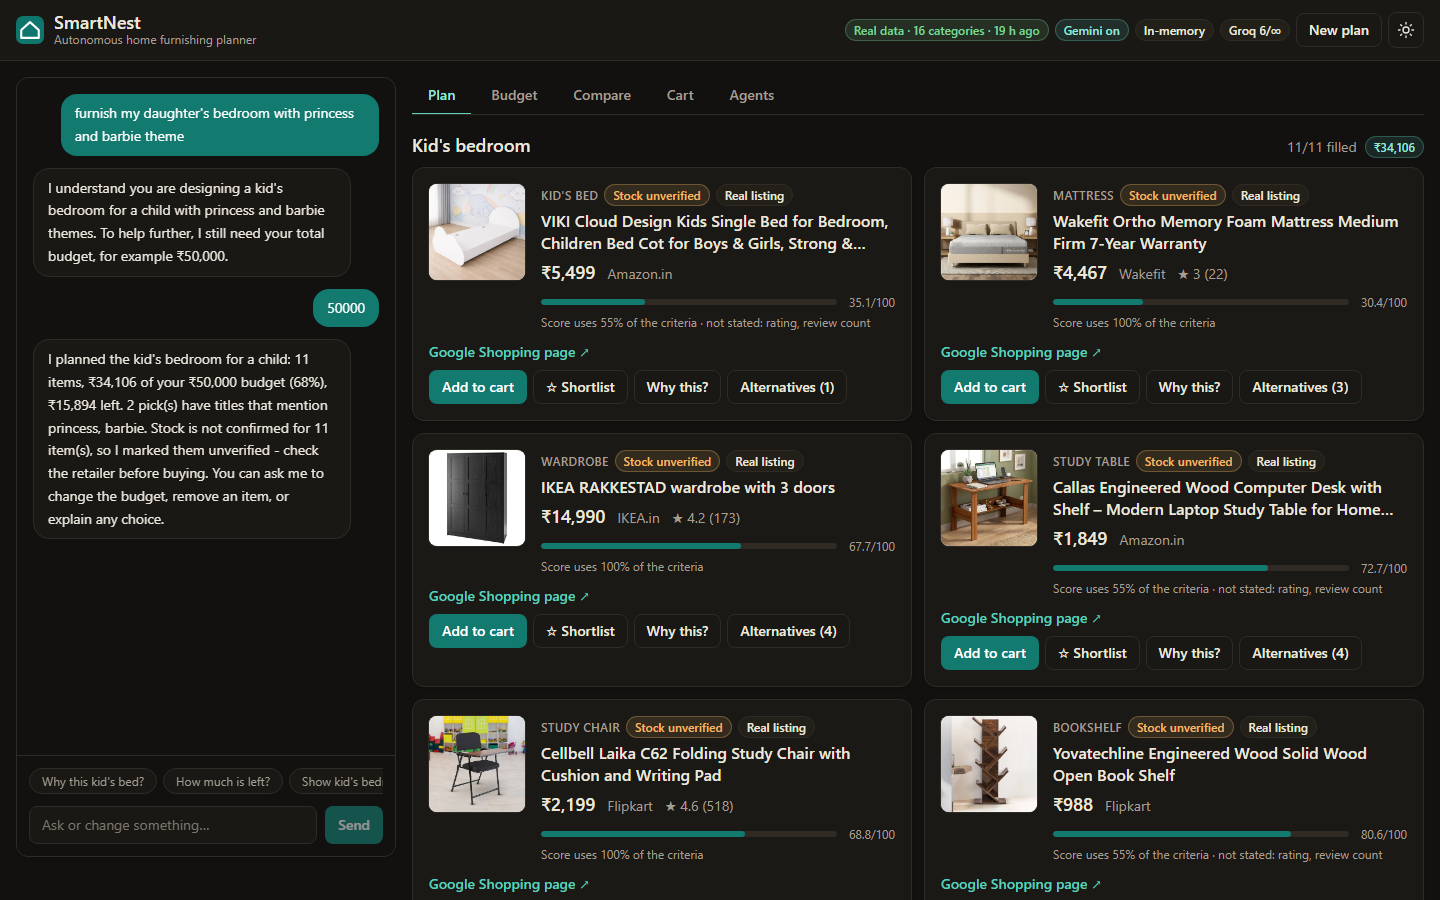
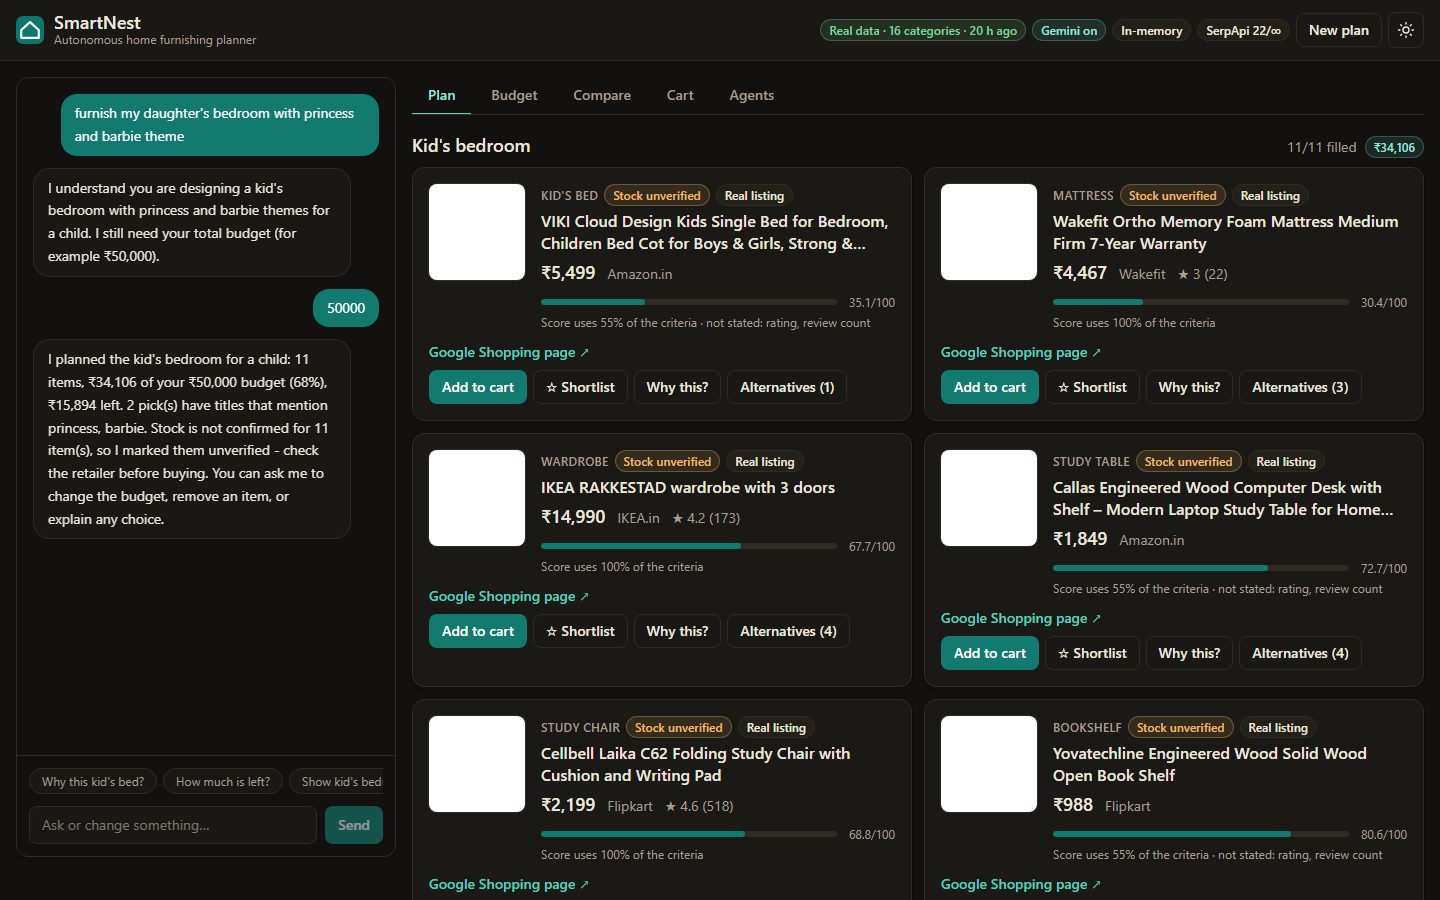
README: describe SerpApi live search, refresh screenshots and test counts

diff --git a/README.md b/README.md
@@ -12,8 +12,8 @@
 ![Tailwind](https://img.shields.io/badge/Tailwind-4-06B6D4?logo=tailwindcss&logoColor=white)
 ![MongoDB](https://img.shields.io/badge/MongoDB-Atlas-47A248?logo=mongodb&logoColor=white)
 ![Gemini](https://img.shields.io/badge/Gemini-language-8E75B2)
-![Groq](https://img.shields.io/badge/Groq-live_search-F55036)
-![Tests](https://img.shields.io/badge/tests-2688_backend_·_66_frontend-brightgreen)
+![SerpApi](https://img.shields.io/badge/SerpApi-live_search-2F6FED)
+![Tests](https://img.shields.io/badge/tests-2551_backend_·_64_frontend-brightgreen)
 
 <img src="docs/screenshots/themed-dark.png" alt="SmartNest planning a child's bedroom with princess and Barbie themed picks" width="900">
 
@@ -64,7 +64,7 @@ Most "AI shopping" demos look great until you check the prices. SmartNest is bui
 | **No invented product facts** | A missing rating, size, colour or style stays *missing* and is shown as "not stated". Nothing is defaulted or guessed. |
 | **Stock is "confirmed" only if the listing says so** | Everything else is labelled *unverified*, and still counts against your budget. |
 | **A leftover is never wasted, a shortfall is never hidden** | If something doesn't fit, SmartNest re-splits the budget; if it truly can't fit, it names the cheapest total and offers to raise the budget or drop the item. |
-| **The model's words are not evidence** | Live search runs on Groq browser search, but a listing is accepted only if its link is a page the search tool returned **and** its price is printed *on that page*. |
+| **The model's words are not evidence** | Gemini only ever supplies category *names*. Every product, price, rating and link comes from the shopping search (SerpApi) or a saved snapshot of it. |
 | **Themes match what the listing says, nothing more** | "Mentions barbie" means the *title* mentions it. A search saved for monsters is never reused for princesses. |
 | **Sample data is always labelled** | Invented demo listings are marked "Sample data", have no buy link and no image. |
 | **Secrets stay secret** | Keys live in git-ignored `.env`, are redacted from every message, and are never returned by the API. |
@@ -74,11 +74,11 @@ Most "AI shopping" demos look great until you check the prices. SmartNest is bui
 ## 🧰 What's inside
 
 - **Talk to it like a person.** Whole homes (`2BHK`), single rooms (`my son's bedroom`), or just things (`a telescope and a bed`). Budgets as `₹2 lakh`, `80k`, `under 50000`, or a bare `40000`. Age, who it's for, and interests are understood. Rules read it first; Gemini helps with free-form requests, and every value it returns is validated.
-- **Any item, not a fixed list.** 16 curated categories (sofa, bed, wardrobe, study table, rug...) plus **anything else by name**: Gemini returns only *category names*, SerpApi/Groq supply the products.
+- **Any item, not a fixed list.** 16 curated categories (sofa, bed, wardrobe, study table, rug...) plus **anything else by name**: Gemini returns only *category names*, SerpApi supplies the products.
 - **A team of five agents:** Coordinator, Space Planning, Product Research, Comparison and Budget, talking over **Ed25519-signed messages** with replay protection, role-based permissions and an audit log.
 - **Plan-level replanning (BDI).** Mark something out of stock, cut the budget, change the theme, drop an item, and only what's affected is re-planned, with an explanation of each change.
 - **A real optimizer.** Hard constraints first, then a transparent utility score whose weights redistribute honestly when data is missing.
-- **Real products.** Live search with **Groq browser search** (opt-in, per-page price verification) or **SerpApi Google Shopping**, cached as snapshots so a normal plan costs nothing.
+- **Real products.** Live search with **SerpApi Google Shopping** (opt-in), cached as snapshots so a normal plan costs nothing.
 - **A proper app.** React + Tailwind + Recharts: chat, room-wise plan, compare and shortlist, budget dashboard, cart, agent monitor, and an elegant **dark mode** (contrast-audited).
 - **Persistence.** Sessions are stored in MongoDB Atlas as `{request, events}` and rebuilt by replay, so a restart loses nothing.
 
@@ -99,7 +99,7 @@ flowchart LR
     CO -- signed --> CM[Comparison<br/>utility optimizer]
     CO -- signed --> BU[Budget]
     PR --> CAT[(Listing snapshots<br/>real, labelled)]
-    CAT -. opt-in refresh .-> GQ[Groq browser search]
+    CAT -. opt-in refresh .-> GQ[SerpApi Google Shopping]
     API --> DB[(MongoDB Atlas<br/>sessions)]
 ```
 
@@ -132,26 +132,25 @@ More to try: `decorate my 10 year old son's bedroom under 50000, he loves cartoo
 | Variable (in `backend/.env`) | What it unlocks |
 |---|---|
 | `GEMINI_API_KEY` | Better understanding of free-form requests and natural replies (optional) |
-| `GROQ_API_KEY` + `SMARTNEST_ALLOW_LIVE_SEARCH=1` | **Search live** buttons powered by Groq browser search (optional, costs tokens) |
-| `SERPAPI_API_KEY` + `SMARTNEST_SEARCH_PROVIDER=serpapi` | Use SerpApi Google Shopping for live search instead (optional) |
+| `SERPAPI_API_KEY` + `SMARTNEST_ALLOW_LIVE_SEARCH=1` | **Search live** buttons powered by SerpApi Google Shopping (optional, uses your SerpApi quota) |
+| `SERPAPI_LIFETIME_LIMIT` | Cap on live requests (a number, or `unlimited`) |
 | `MONGODB_URI` + `SMARTNEST_USE_ATLAS=1` | Keep chat sessions across restarts (optional) |
 
 `backend/.env` is git-ignored. Never commit it. All variables are documented in [`backend/.env.example`](backend/.env.example).
 
-> **Heads-up on live search:** Groq's free tier allows 200,000 tokens a day, and a verified search that opens full product pages can
-> use most of that. SmartNest steers the model to small category pages and reports the tokens used. Everything else is served from
-> saved snapshots, so normal use costs nothing.
+> **Heads-up on live search:** each live search spends SerpApi requests (the app tells you how many before it runs). Everything else
+> is served from saved snapshots, so normal use costs nothing.
 
 ---
 
 ## ✅ Tested like it matters
 
-- **2,688 backend tests** (pytest), **66 frontend tests** (vitest), plus **real-browser suites** (Playwright) that play the full
+- **2,551 backend tests** (pytest), **64 frontend tests** (vitest), plus **real-browser suites** (Playwright) that play the full
   scenarios against the real stack: the 2BHK demo (23 checks), a child's room (13), a budget too small (8), a list of things (13),
   a theme with no saved listings (13) and dark mode (16, including a WCAG contrast audit of every tab).
-- **Mutation-checked:** for the rules that matter (budget ceiling, stock honesty, price-on-the-page verification, rate-limit waits)
+- **Mutation-checked:** for the rules that matter (budget ceiling, stock honesty, theme matching, the request ledger)
   I broke the code on purpose and confirmed the tests fail.
-- **Real data in the loop:** tests run against saved real listings and a trimmed copy of a real Groq response, not only mocks.
+- **Real data in the loop:** tests run against saved real SerpApi listings, not only mocks.
 
 ```bash
 cd backend  && python -m pytest -q          # backend
@@ -169,7 +168,7 @@ backend/src/smartnest/
   optimization/    hard constraints + the utility optimizer
   bdi/             beliefs, desires, intentions (the single-item BDI agent)
   security/        Ed25519 signing, replay guard, role policy, audit log
-  integrations/    Gemini, Groq browser search, SerpApi, product parsing
+  integrations/    Gemini, SerpApi, product parsing
   api/             FastAPI app, sessions, views
   database/        MongoDB Atlas layer
   cnp/ workers/ communication/   the earlier assignments (Contract Net, threads, TCP messaging)

diff --git a/backend/README.md b/backend/README.md
@@ -147,7 +147,7 @@ cd backend
 python -m pytest
 ```
 
-2688 tests covering all modules (302 from Assignments 1.2–3.1, 167 for Assignment 3.2, 156 for the MongoDB layer, 340 for Assignment 4.1, 386 for Assignment 4.2, 176 for SerpApi, 130 net for optional dimensions, 110 net for optional attributes, 139 for agent security, 635 for the furnishing layer, chat, API, cart, briefs, live search and real-catalog end-to-end), plus 28 optional tests that need live services and are skipped by default (`SMARTNEST_RUN_ATLAS_TESTS=1` for Atlas, `SMARTNEST_RUN_LIVE_TESTS=1` for Gemini, `SMARTNEST_RUN_SERPAPI_TESTS=1` for SerpApi).
+2551 tests covering all modules (302 from Assignments 1.2–3.1, 167 for Assignment 3.2, 156 for the MongoDB layer, 340 for Assignment 4.1, 386 for Assignment 4.2, 176 for SerpApi, 130 net for optional dimensions, 110 net for optional attributes, 139 for agent security, 635 for the furnishing layer, chat, API, cart, briefs, live search and real-catalog end-to-end), plus 28 optional tests that need live services and are skipped by default (`SMARTNEST_RUN_ATLAS_TESTS=1` for Atlas, `SMARTNEST_RUN_LIVE_TESTS=1` for Gemini, `SMARTNEST_RUN_SERPAPI_TESTS=1` for SerpApi).
 
 ## Architecture
 
